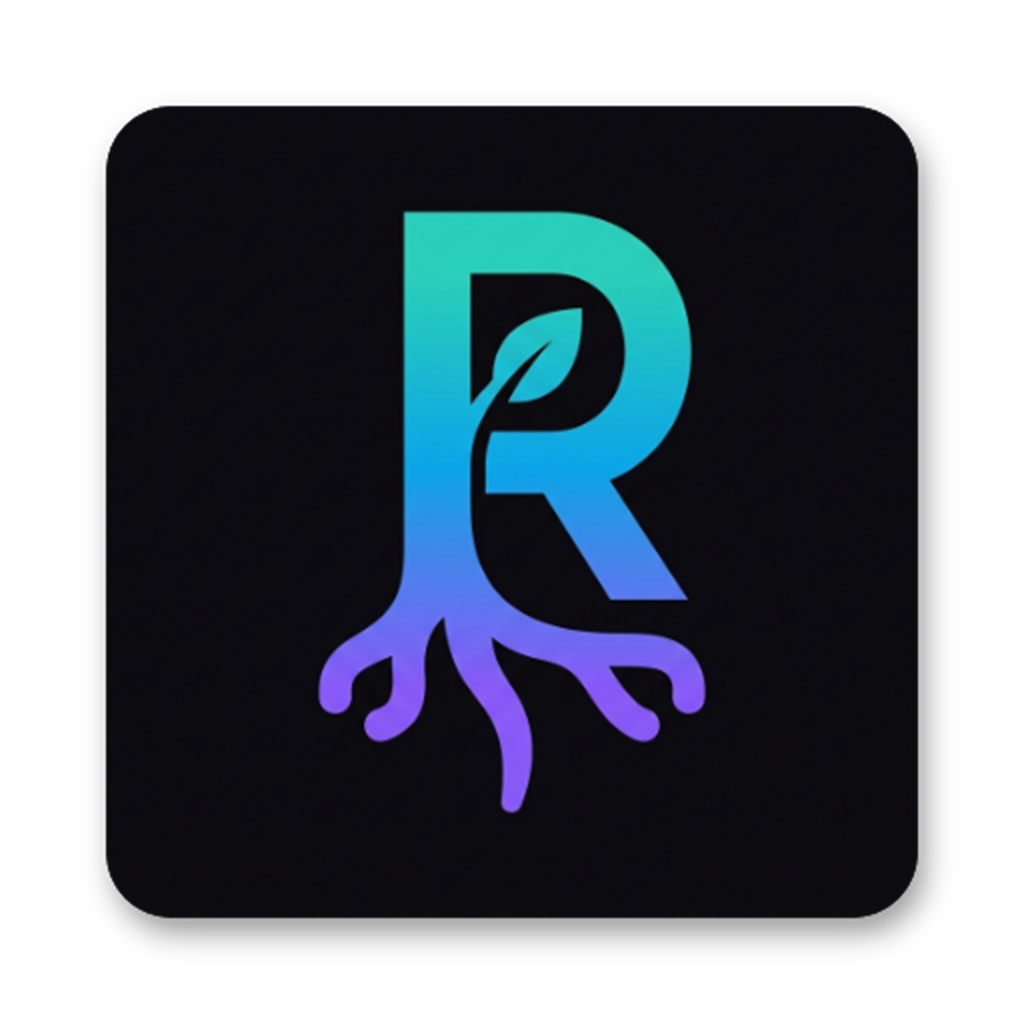
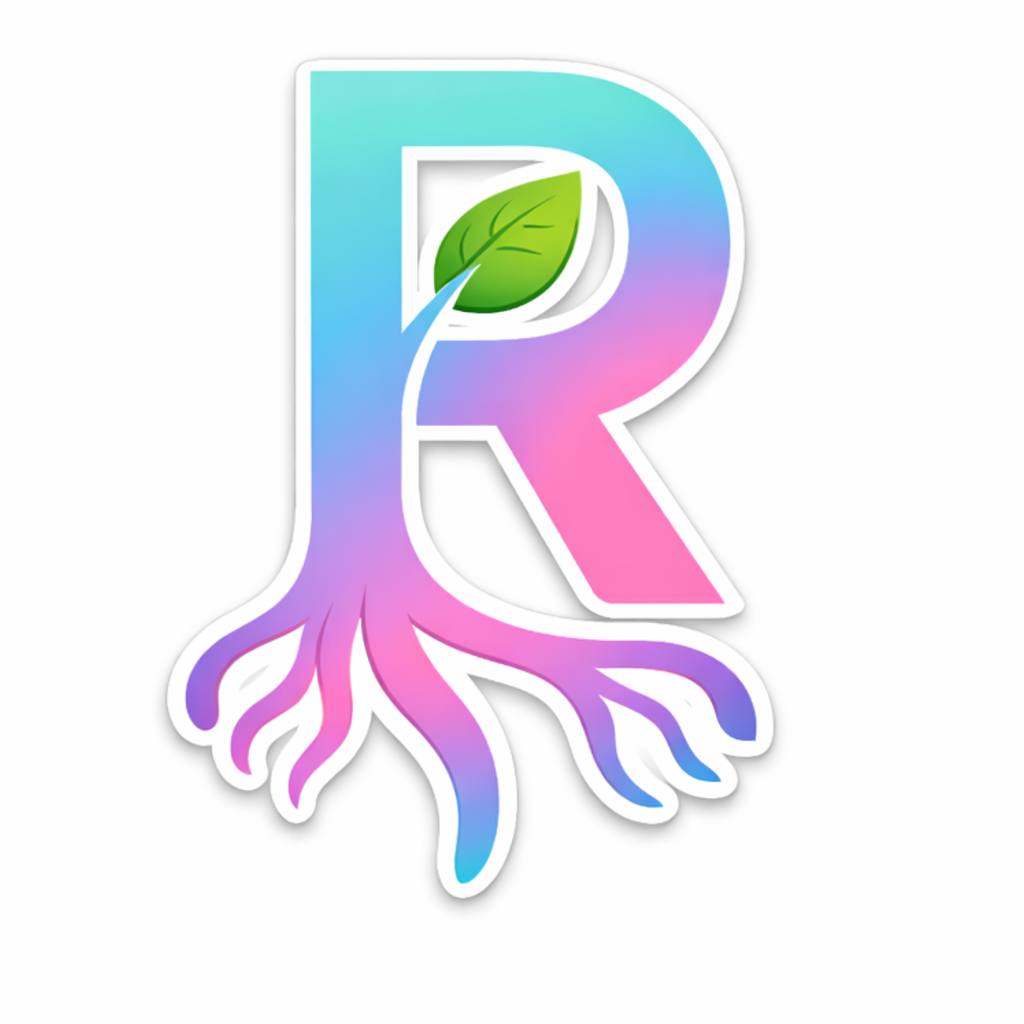
Fix App Store subscription paywall for 3.1.2(c) and bump iOS build 2.
Show subscription title, length, and StoreKit price on paywall open with Privacy Policy and Terms of Use links. Update app icon and iOS buildNumber to 2.

diff --git a/src/components/PremiumGateModal.tsx b/src/components/PremiumGateModal.tsx
@@ -111,6 +111,22 @@ export default function PremiumGateModal({ visible, onClose, trigger }: Props) {
   }, [visible, profilePremium, trigger]);
 
   useEffect(() => {
+    if (!visible || profilePremium) return;
+    let cancelled = false;
+    void (async () => {
+      try {
+        await connect();
+        if (!cancelled) await loadProducts();
+      } catch {
+        /* fallbacks shown until store responds */
+      }
+    })();
+    return () => {
+      cancelled = true;
+    };
+  }, [visible, profilePremium, connect, loadProducts]);
+
+  useEffect(() => {
     if (visible) {
       sheetOpacity.setValue(0);
       sheetTranslate.setValue(28);
@@ -208,7 +224,17 @@ export default function PremiumGateModal({ visible, onClose, trigger }: Props) {
     (product as { displayPrice?: string; localizedPrice?: string } | undefined)
       ?.displayPrice ??
     (product as { localizedPrice?: string } | undefined)?.localizedPrice ??
-    "—";
+    null;
+  const subscriptionTitle =
+    (product as { title?: string; displayName?: string } | undefined)?.title ??
+    (product as { displayName?: string } | undefined)?.displayName ??
+    t("premium.subscriptionTitle");
+  const subscriptionPriceLine =
+    priceStr != null
+      ? t("premium.subscriptionPriceLine", { price: priceStr })
+      : isLoading
+        ? t("premium.subscriptionPriceLoading")
+        : t("premium.subscriptionPriceUnavailable");
 
   const ctaPressIn = () => {
     Animated.spring(ctaScale, {
@@ -311,6 +337,19 @@ export default function PremiumGateModal({ visible, onClose, trigger }: Props) {
                   <Text style={styles.footnoteText}>{t("premium.investmentFootnote")}</Text>
                 </View>
 
+                <View
+                  style={styles.subscriptionDisclosure}
+                  accessibilityRole="summary"
+                  accessibilityLabel={`${subscriptionTitle}. ${t("premium.subscriptionLength")}. ${subscriptionPriceLine}`}
+                >
+                  <Text style={styles.subscriptionDisclosureLabel}>
+                    {t("premium.subscriptionDisclosureLabel")}
+                  </Text>
+                  <Text style={styles.subscriptionTitle}>{subscriptionTitle}</Text>
+                  <Text style={styles.subscriptionLength}>{t("premium.subscriptionLength")}</Text>
+                  <Text style={styles.subscriptionPrice}>{subscriptionPriceLine}</Text>
+                </View>
+
                 <Animated.View
                   style={[styles.ctaScaleWrap, { transform: [{ scale: ctaScale }] }]}
                 >
@@ -325,11 +364,11 @@ export default function PremiumGateModal({ visible, onClose, trigger }: Props) {
                     accessibilityRole="button"
                   >
                     <Text style={styles.ctaText}>
-                      {purchasing || isLoading
+                      {purchasing
                         ? t("common.loading")
-                        : priceStr !== "—"
+                        : priceStr != null
                           ? t("premium.ctaButtonWithPrice", { price: priceStr })
-                          : t("premium.ctaButton")}
+                          : t("premium.ctaButtonSubscribe")}
                     </Text>
                   </TouchableOpacity>
                 </Animated.View>
@@ -586,6 +625,50 @@ const styles = StyleSheet.create({
     fontStyle: "italic",
     color: Colors.textSecondary,
     lineHeight: 17,
+  },
+  subscriptionDisclosure: {
+    backgroundColor: Colors.bg,
+    borderRadius: Radii.card,
+    borderWidth: 1,
+    borderColor: Colors.border,
+    paddingVertical: 12,
+    paddingHorizontal: Spacing.sm,
+    marginBottom: Spacing.sm,
+    alignItems: "center",
+  },
+  subscriptionDisclosureLabel: {
+    fontSize: 9,
+    fontFamily: "Inter_600SemiBold",
+    fontWeight: "600",
+    color: Colors.textTertiary,
+    letterSpacing: 0.5,
+    textTransform: "uppercase",
+    marginBottom: 6,
+  },
+  subscriptionTitle: {
+    fontSize: FontSizes.md,
+    fontFamily: "Inter_600SemiBold",
+    fontWeight: "600",
+    color: Colors.textPrimary,
+    textAlign: "center",
+    lineHeight: 22,
+  },
+  subscriptionLength: {
+    fontSize: FontSizes.xs,
+    fontFamily: "Inter_400Regular",
+    color: Colors.textSecondary,
+    textAlign: "center",
+    marginTop: 4,
+    lineHeight: 16,
+  },
+  subscriptionPrice: {
+    fontSize: FontSizes.lg,
+    fontFamily: "Inter_600SemiBold",
+    fontWeight: "600",
+    color: Colors.primary,
+    textAlign: "center",
+    marginTop: 6,
+    lineHeight: 24,
   },
   ctaScaleWrap: {
     width: "100%",